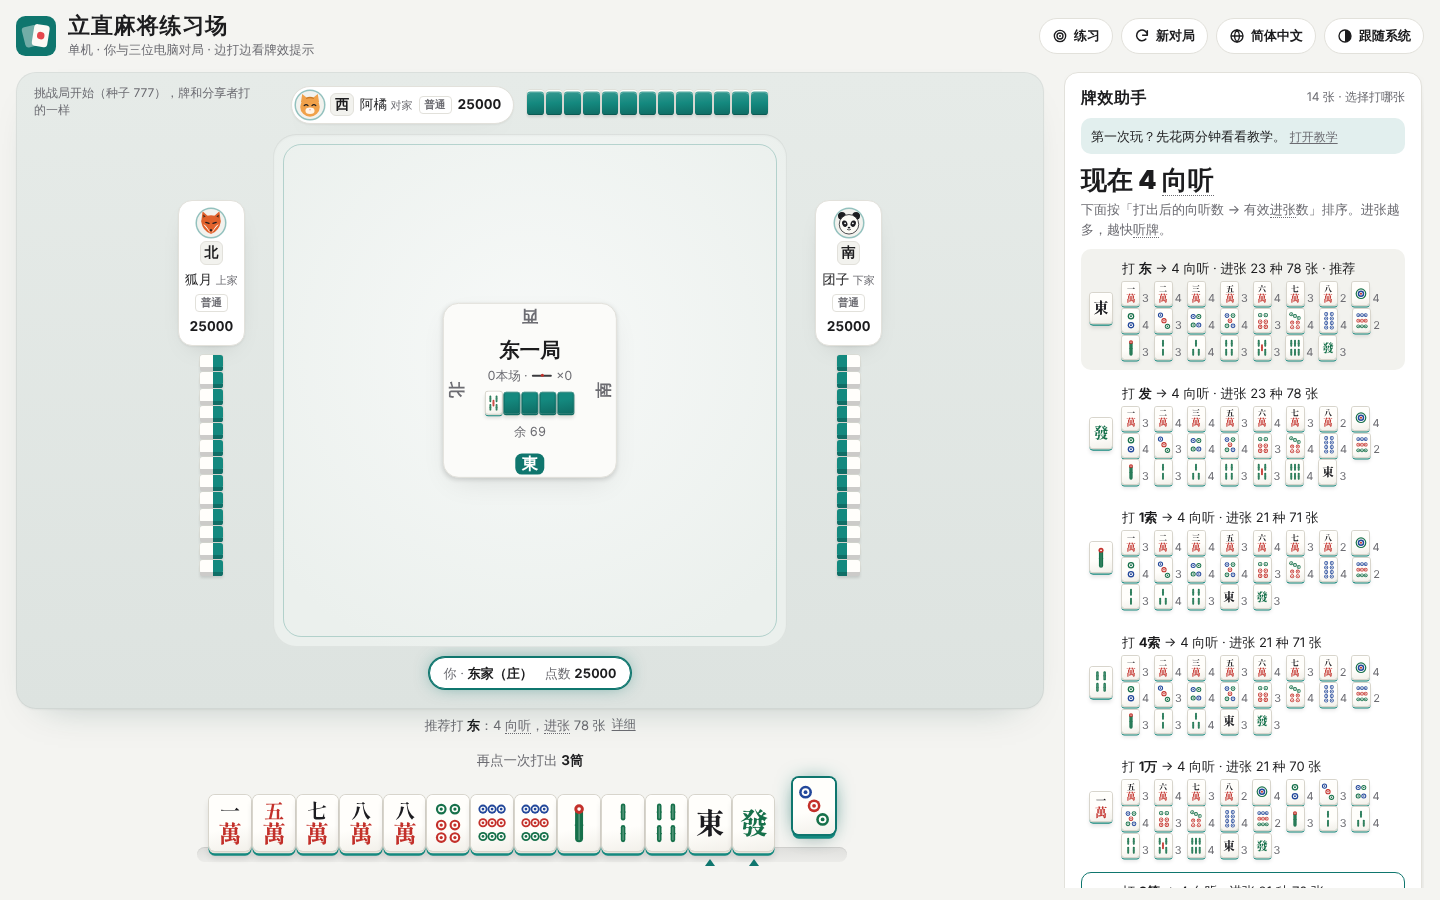
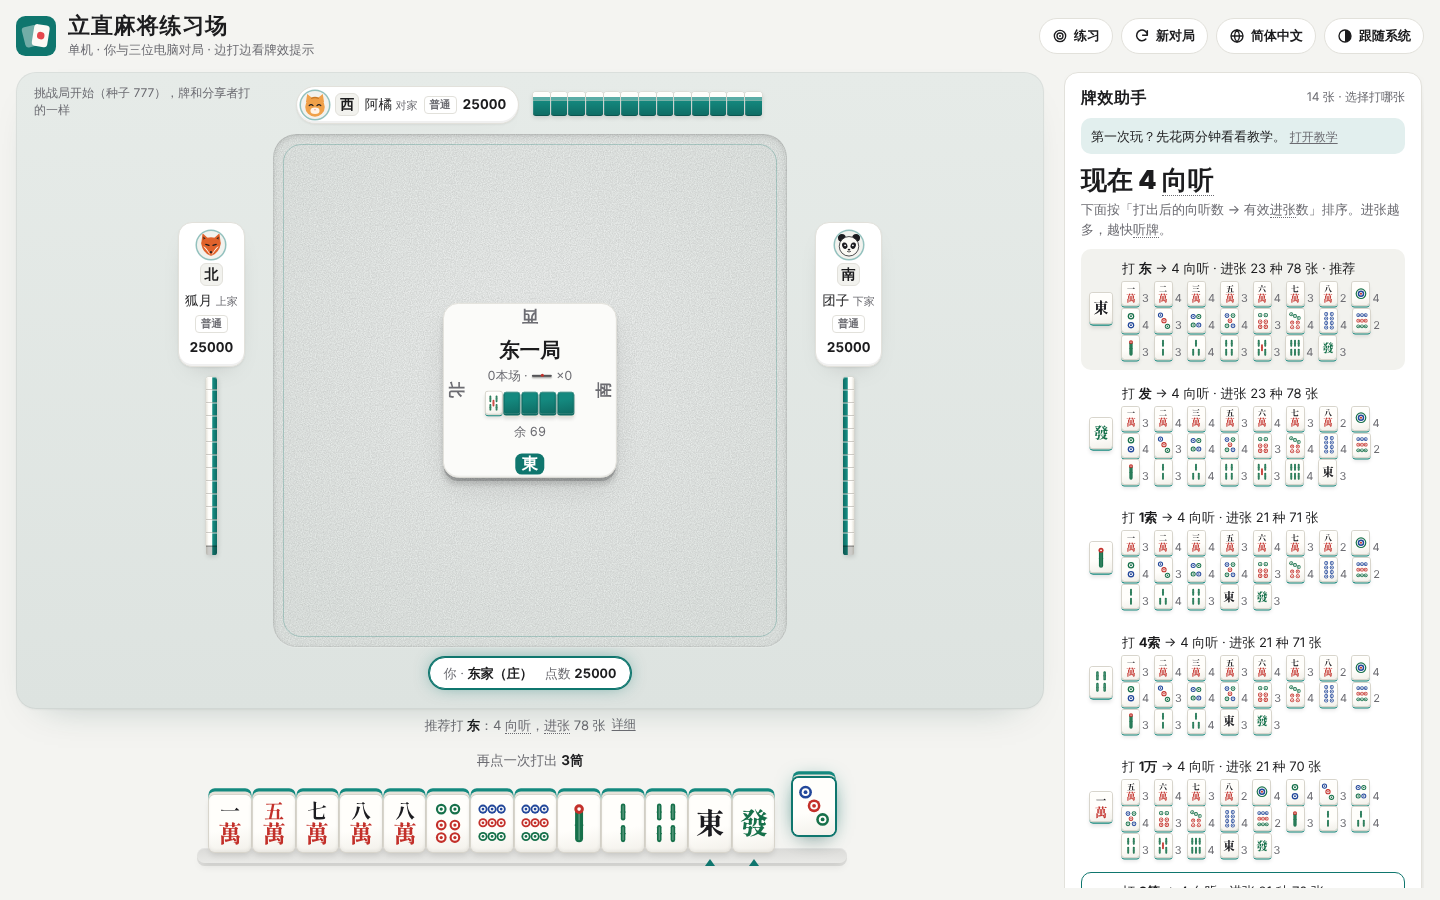
Slimmer left and right hands; no text selection when tapping or double-clicking tiles
- Side hands: the column of tile tops is about the thickness of a real tile (0.42 of a
  discard, was 0.72), with a shorter side on the nearest tile.
- The table, hand, action buttons, header buttons and practice tiles no longer select page
  text (or open the iOS callout) on a double click or long press; the drawer's text stays
  selectable.

Claude-Session: https://claude.ai/code/session_01SjcvCMUUgAG6ryDGx6VC9u

Changed region(s): [[0.125, 0.0933, 0.625, 0.7156], [0.125, 0.9333, 0.5938, 0.9644], [0.1562, 0.8711, 0.5312, 0.9022]]

diff --git a/css/style.css b/css/style.css
@@ -188,6 +188,9 @@ button{font:inherit;color:inherit}
 .tool select{position:absolute;inset:0;width:100%;opacity:0;cursor:pointer;font-size:16px}
 .tool:focus-within{outline:2px solid var(--gold);outline-offset:2px}
 
+/* Tapping or double-clicking tiles and buttons never selects page text (or pops the iOS callout); the drawer's
+   text (coach, log, rules) stays selectable. */
+.game,.tile,.btn,.tool,.modal .mhand,.ptiles,.palette{-webkit-user-select:none;user-select:none;-webkit-touch-callout:none}
 /* game column */
 .game{container-type:inline-size;min-width:0}
 .stage{--side:92px;--agap:16px;--tpad:14px;grid-template-columns:minmax(0,1fr);display:grid;gap:6px;
@@ -216,14 +219,14 @@ button{font:inherit;color:inherit}
      tops (the ivory body on the player's side, the coloured back toward the centre, a seam between tiles) and,
      on the tile nearest you, its side. The coloured part is wider than the top alone: from the middle of the table
      you also see a sliver of each tile's back, turned toward you. */
-  .opp.left .backs,.opp.right .backs{flex-direction:column;gap:0;padding:2px 3px calc(var(--pw)*.46 + 4px);filter:drop-shadow(1px 2px 2px var(--tile-shadow))}
-  .opp.left .backs i,.opp.right .backs i{--split:linear-gradient(90deg,var(--ivory-2) 0,var(--ivory) 20% 40%,color-mix(in srgb,var(--back) 75%,#fff) 40% 48%,var(--back) 48%,var(--back-2));
-    position:relative;width:calc(var(--pw)*.72);height:calc(var(--pw)*.52);border-radius:0;background:var(--split);box-shadow:inset 0 -1px 0 rgba(0,0,0,.22),inset 0 1px 0 rgba(255,255,255,.4),0 0 0 .5px var(--tile-edge)}
-  .opp.right .backs i{--split:linear-gradient(90deg,var(--back-2),var(--back) 52%,color-mix(in srgb,var(--back) 75%,#fff) 52% 60%,var(--ivory) 60% 80%,var(--ivory-2))}
+  .opp.left .backs,.opp.right .backs{flex-direction:column;gap:0;padding:2px 3px calc(var(--pw)*.32 + 4px);filter:drop-shadow(1px 2px 2px var(--tile-shadow))}
+  .opp.left .backs i,.opp.right .backs i{--split:linear-gradient(90deg,var(--ivory-2) 0,var(--ivory) 25% 56%,color-mix(in srgb,var(--back) 75%,#fff) 56% 66%,var(--back) 66%,var(--back-2));
+    position:relative;width:calc(var(--pw)*.42);height:calc(var(--pw)*.5);border-radius:0;background:var(--split);box-shadow:inset 0 -1px 0 rgba(0,0,0,.22),inset 0 1px 0 rgba(255,255,255,.4),0 0 0 .5px var(--tile-edge)}
+  .opp.right .backs i{--split:linear-gradient(90deg,var(--back-2),var(--back) 34%,color-mix(in srgb,var(--back) 75%,#fff) 34% 44%,var(--ivory) 44% 75%,var(--ivory-2))}
   .opp.left .backs i::before,.opp.right .backs i::before{content:none}
   .opp.left .backs i:first-child,.opp.right .backs i:first-child{border-radius:calc(var(--pw)*.1) calc(var(--pw)*.1) 0 0}
   .opp.left .backs i:last-child,.opp.right .backs i:last-child{border-radius:0}
-  .opp.left .backs i:last-child::after,.opp.right .backs i:last-child::after{content:"";position:absolute;left:0;right:0;top:100%;height:calc(var(--pw)*.46);border-radius:0 0 calc(var(--pw)*.1) calc(var(--pw)*.1);background:var(--split);filter:brightness(.8);box-shadow:inset 0 1px 0 rgba(0,0,0,.25)}
+  .opp.left .backs i:last-child::after,.opp.right .backs i:last-child::after{content:"";position:absolute;left:0;right:0;top:100%;height:calc(var(--pw)*.32);border-radius:0 0 calc(var(--pw)*.1) calc(var(--pw)*.1);background:var(--split);filter:brightness(.8);box-shadow:inset 0 1px 0 rgba(0,0,0,.25)}
   .arena .pm .tile{--w:calc(var(--pw)*.76)}
   /* The seat across sits on one line (name pill, then its tiles), so the rows above and below the mat stay short
      and the mat, and with it every discard, can be larger. The log ticker moves to the table's top-left corner. */
